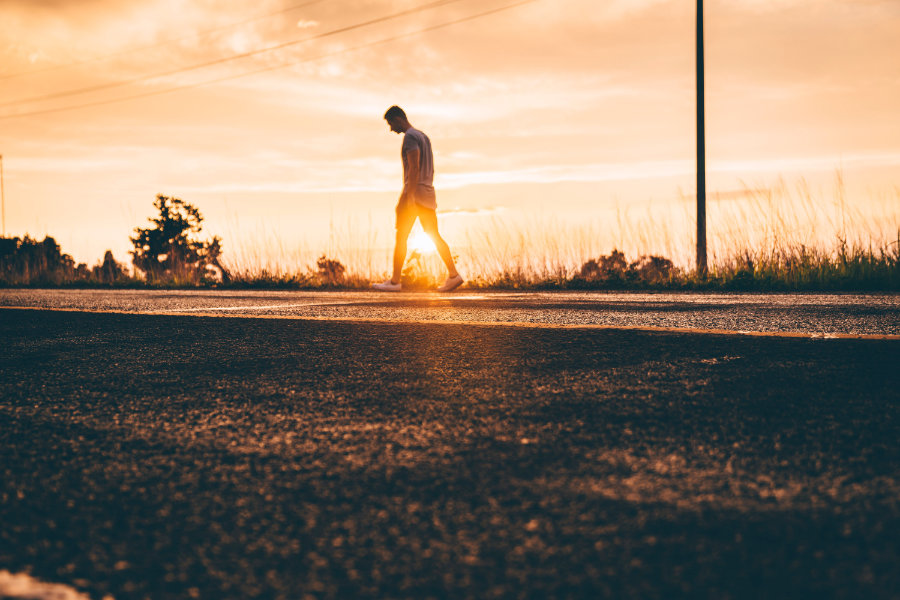
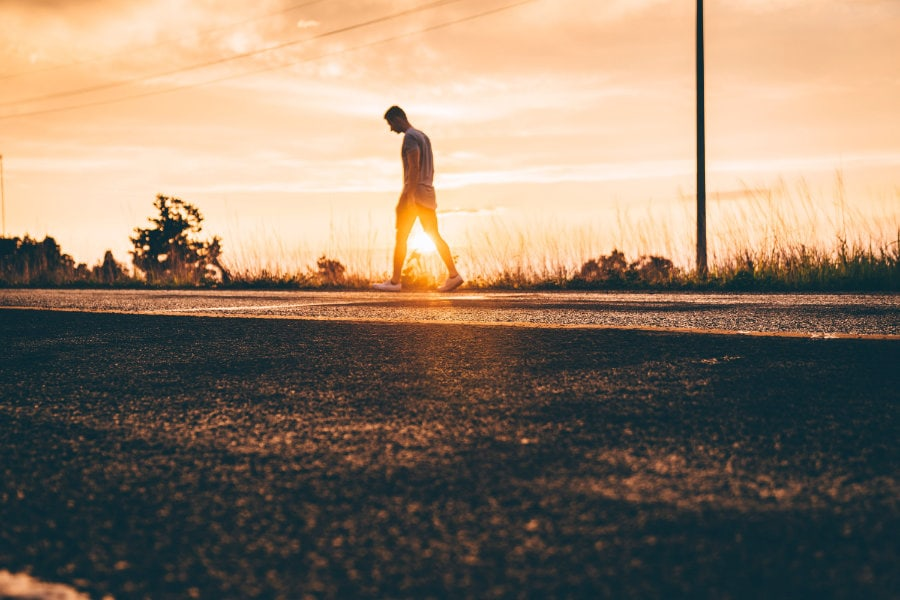
further optimizing blog images

diff --git a/blog/why-you-will-never-get-what-you-deserve.html b/blog/why-you-will-never-get-what-you-deserve.html
@@ -84,7 +84,7 @@
 							<div class="single-post row">
 								<div class="col-lg-12">
 									<div class="feature-img">
-										<img class="img-fluid" src="../img/blog/sunset-path-1280p.jpg" alt="">
+										<img class="img-fluid" src="../img/blog/sunset-path-1080p.jpg" alt="">
 										<a style="background-color:black;color:white;text-decoration:none;padding:4px 6px;font-family:-apple-system, BlinkMacSystemFont, &quot;San Francisco&quot;, &quot;Helvetica Neue&quot;, Helvetica, Ubuntu, Roboto, Noto, &quot;Segoe UI&quot;, Arial, sans-serif;font-size:12px;font-weight:bold;line-height:1.2;display:inline-block;border-radius:3px" href="https://unsplash.com/@whereisfarid?utm_medium=referral&amp;utm_campaign=photographer-credit&amp;utm_content=creditBadge" target="_blank" rel="noopener noreferrer" title="Download free do whatever you want high-resolution photos from Farid Askerov"><span style="display:inline-block;padding:2px 3px"><svg xmlns="http://www.w3.org/2000/svg" style="height:12px;width:auto;position:relative;vertical-align:middle;top:-2px;fill:white" viewBox="0 0 32 32"><title>unsplash-logo</title><path d="M10 9V0h12v9H10zm12 5h10v18H0V14h10v9h12v-9z"></path></svg></span><span style="display:inline-block;padding:2px 3px">Farid Askerov</span></a>
 									</div>									
 								</div>
